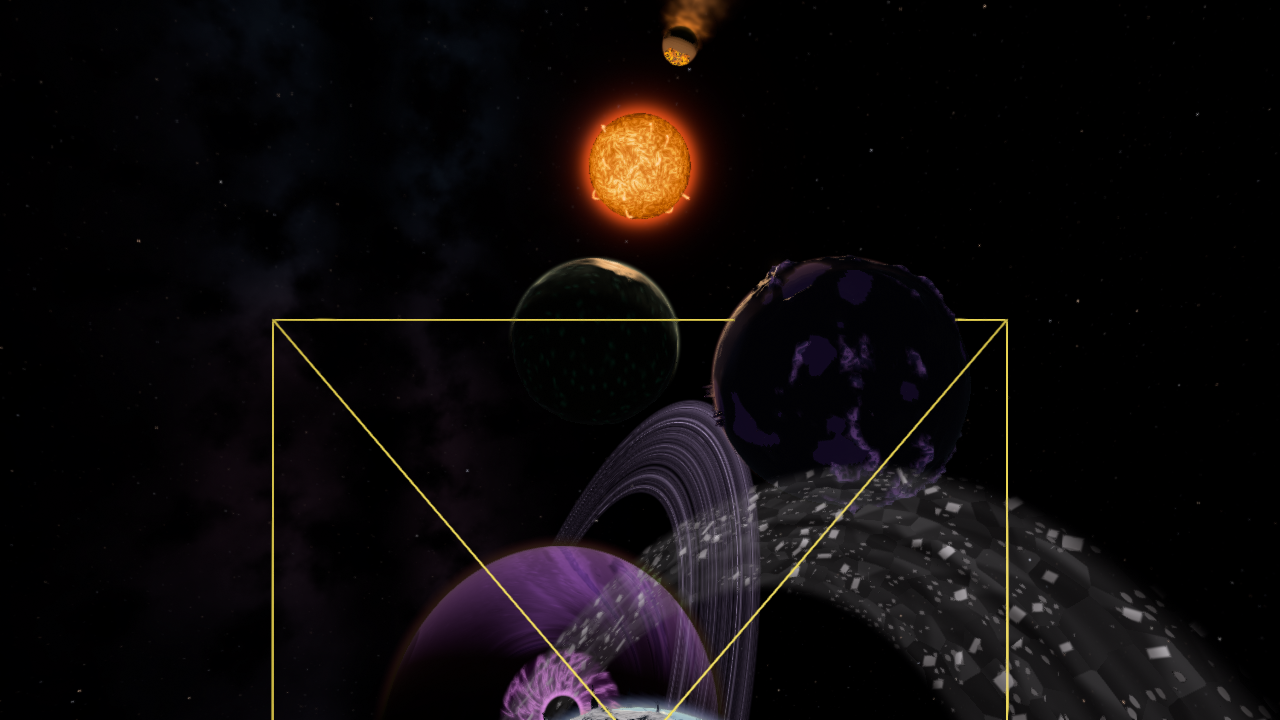
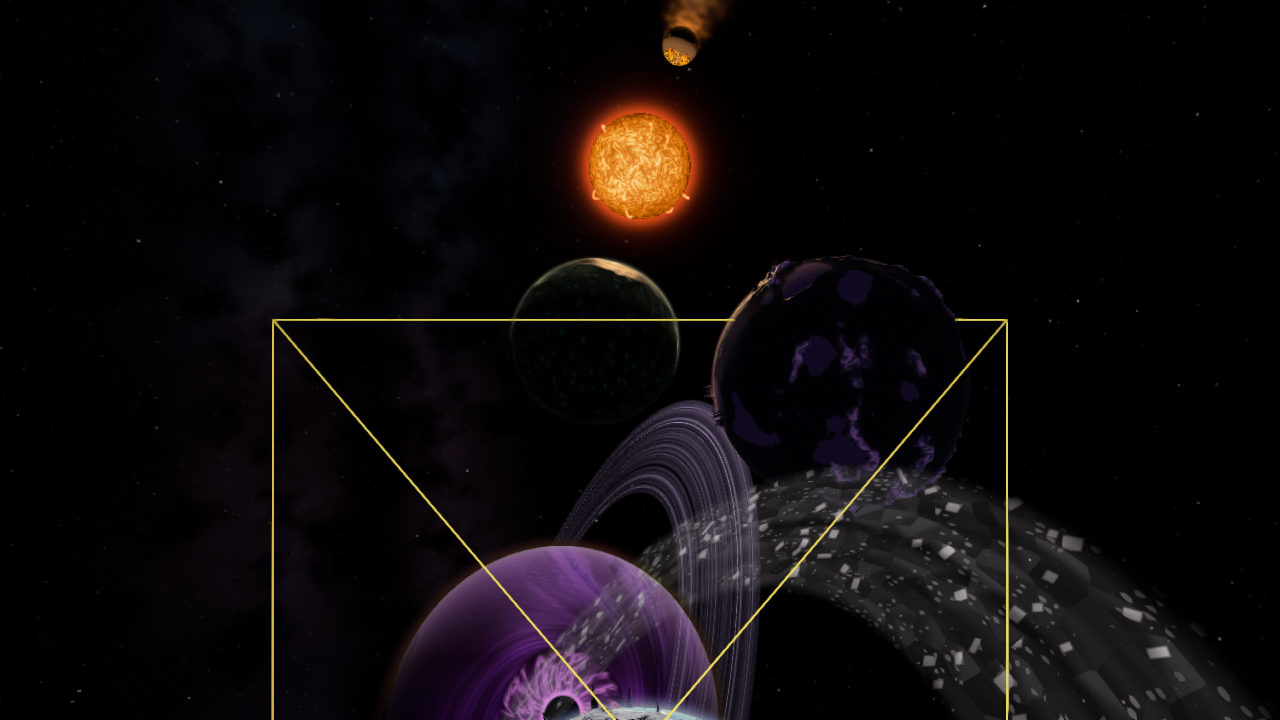
Encender el lado de noche de Vigia para que no se vea medio planeta y darle penumbra a la sombra sobre los anillos

diff --git a/src/shaders/vigia.rs b/src/shaders/vigia.rs
@@ -18,6 +18,10 @@
 //!   corre su color del rosa al violeta.
 //! - **Relampagos**: destellos chicos dentro de las nubes del vortice, en
 //!   lugares que cambian cada fraccion de segundo; de noche se ven de lejos.
+//! - **De noche no se apaga**: las capas hondas del gas brillan violeta a
+//!   traves de las nubes, el iris alumbra el remolino a su alrededor y, a
+//!   contraluz, la bruma alta dispersa la estrella en un borde fino. Asi el
+//!   disco se lee entero desde cualquier lado y el ojo no queda flotando.
 
 use super::{Fragment, Uniforms, limb_haze};
 use crate::math::{Vec3, smoothstep};
@@ -32,6 +36,8 @@ const ROSE: Vec3 = Vec3::new(0.66, 0.4, 0.78);
 const IRIS_DEEP: Vec3 = Vec3::new(0.22, 0.02, 0.3);
 const IRIS_HOT: Vec3 = Vec3::new(1.0, 0.32, 0.72);
 const IRIS_COOL: Vec3 = Vec3::new(0.62, 0.22, 1.0);
+/// Tinte del brillo propio del gas en el lado de noche.
+const DEEP_GLOW: Vec3 = Vec3::new(0.75, 0.42, 1.25);
 
 /// Gira `p` un angulo `angle` alrededor del eje unitario `axis` (Rodrigues).
 #[inline]
@@ -83,6 +89,7 @@ pub fn shade(f: &Fragment, u: &Uniforms) -> Vec3 {
         (a, eye.cross(a))
     };
     let theta = p.dot(b).atan2(p.dot(a));
+    let iris_color = IRIS_COOL.lerp(IRIS_HOT, hue);
 
     let mut glow = Vec3::ZERO;
     // Brazos en espiral logaritmica que caen al ojo y giran con el: claros
@@ -106,7 +113,6 @@ pub fn shade(f: &Fragment, u: &Uniforms) -> Vec3 {
         );
         let filaments = (1.0 - gas.abs() * 2.2).max(0.0).powi(3);
         let heat = smoothstep(1.0, 0.25, r) * (0.55 + 0.45 * cycle);
-        let iris_color = IRIS_COOL.lerp(IRIS_HOT, hue);
         let iris = IRIS_DEEP.lerp(iris_color, (heat * (0.5 + 0.5 * gas) + filaments * 0.6).clamp(0.0, 1.0));
         albedo = albedo.lerp(iris * 0.5, inside * 0.85) * (1.0 - 0.85 * limbal);
         // La pupila: redonda, se dilata con el latido y se cierra con la
@@ -147,5 +153,19 @@ pub fn shade(f: &Fragment, u: &Uniforms) -> Vec3 {
     let wrap = ((nl + 0.12) / 1.12).max(0.0);
     let light = Vec3::splat(u.sun_light.luminance()) * 1.45 + Vec3::new(0.02, 0.012, 0.05);
     let lit = albedo * light * (wrap * (0.55 + 0.45 * nv)) + albedo * 0.01;
-    lit + glow * u.gains.vigia + limb_haze(f, Vec3::new(0.36, 0.1, 0.5), 0.35, nl)
+
+    // El lado de noche: el gas hondo brilla a traves de las nubes (las
+    // bandas se siguen leyendo) y el iris alumbra el remolino que lo rodea.
+    let night = smoothstep(0.2, -0.3, nl);
+    let deep = albedo * DEEP_GLOW * (0.085 * night);
+    let around = smoothstep(0.85, 1.05, r) * (-(r - 1.0).powi(2) * 0.75).exp();
+    let eye_light = albedo * iris_color * (around * (0.2 + 0.8 * night) * (0.5 + 0.5 * cycle) * 1.1);
+    glow += deep + eye_light;
+    // A contraluz la bruma alta dispersa la estrella hacia adelante: un borde
+    // fino que cierra la silueta del lado oscuro.
+    let back = (-l).dot(v).max(0.0);
+    let backlit = (1.0 - nv).powi(5) * back * back * smoothstep(-0.6, 0.0, nl);
+    let rim = Vec3::new(0.7, 0.4, 0.95) * light * (backlit * 0.9);
+
+    lit + rim + glow * u.gains.vigia + limb_haze(f, Vec3::new(0.36, 0.1, 0.5), 0.35, nl)
 }

diff --git a/src/shaders/rings.rs b/src/shaders/rings.rs
@@ -285,11 +285,18 @@ pub fn composite(color: Vec3, dir: Vec3, depth: f32, ring: &RingInfo, u: &Unifor
         return color;
     }
     let to_sun = (u.sun_pos - hit).normalize();
-    // Sombra del planeta: el rayo del punto hacia la estrella pega en la esfera.
+    // Sombra del planeta: el rayo del punto hacia la estrella pega en la
+    // esfera. La estrella es enorme, asi que el borde es una penumbra que se
+    // abre con la distancia detras del planeta.
     let oc = hit - ring.center;
     let b = oc.dot(to_sun);
-    let c = oc.length_squared() - ring.planet_radius * ring.planet_radius;
-    let shadowed = b < 0.0 && b * b - c > 0.0;
+    let lit_part = if b < 0.0 {
+        let miss = (oc.length_squared() - b * b).max(0.0).sqrt();
+        let penumbra = (-b * u.sun_radius / (u.sun_pos - hit).length()).max(1.0);
+        smoothstep(ring.planet_radius - penumbra, ring.planet_radius + penumbra, miss)
+    } else {
+        1.0
+    };
     let s = (r - ring.inner) / (ring.outer - ring.inner);
     // Lo que mide un pixel en el plano, visto de lado crece.
     let footprint = t * u.pixel_angle / denom.abs().max(0.05);
@@ -321,7 +328,7 @@ pub fn composite(color: Vec3, dir: Vec3, depth: f32, ring: &RingInfo, u: &Unifor
     };
     let forward = dir.dot(to_sun).max(0.0).powi(6) * scatter;
     let glint = (-dir).dot(ring.normal).abs() * 0.2;
-    let light = if shadowed { 0.02 } else { 0.35 + forward + glint };
+    let light = 0.02 + (0.33 + forward + glint) * lit_part;
     // El polvo de Vigia, como sus nubes, guarda su color con la luz roja;
     // las ruinas de Requiem, tan lejos, la reciben fria como su planeta.
     let sun = match ring.style {

diff --git a/EXPLICACION.md b/EXPLICACION.md
@@ -305,12 +305,17 @@ su color HDR. Algunos ejemplos de técnica:
 - **Vigía** ([vigia.rs](src/shaders/vigia.rs)): coordenadas giradas con la
   fórmula de Rodrigues para el vórtice; el iris en coordenadas polares
   alrededor del eje del ojo, con ruido que se retuerce y corre hacia adentro.
+  El lado de noche no se apaga: las capas hondas del gas brillan violeta a
+  través de las nubes, el iris alumbra el remolino con una caída gaussiana
+  y, a contraluz, un borde de dispersión hacia adelante cierra la silueta.
+  Sin eso, desde Párpado o desde atrás se veía medio planeta o el ojo solo.
 - **Párpado** ([parpado.rs](src/shaders/parpado.rs)): el agua refleja a
   Vigía intersectando el rayo reflejado con su esfera y llamando al shader de
   Vigía en ese punto.
 - **Anillos** ([rings.rs](src/shaders/rings.rs)): analíticos (intersección
   rayo-plano), con la sombra del planeta sobre ellos y la de ellos sobre el
-  planeta. Las naves son celdas de Voronoi en coordenadas polares (un número
+  planeta. La sombra del planeta tiene penumbra: su ancho es la distancia
+  detrás del planeta por el radio angular de la estrella. Las naves son celdas de Voronoi en coordenadas polares (un número
   entero por vuelta, para que no haya costura) con una silueta de nave por
   distancia con signo; giran en bloque (con la velocidad de Kepler de cada
   radio, en un minuto se estirarían en rayas).
